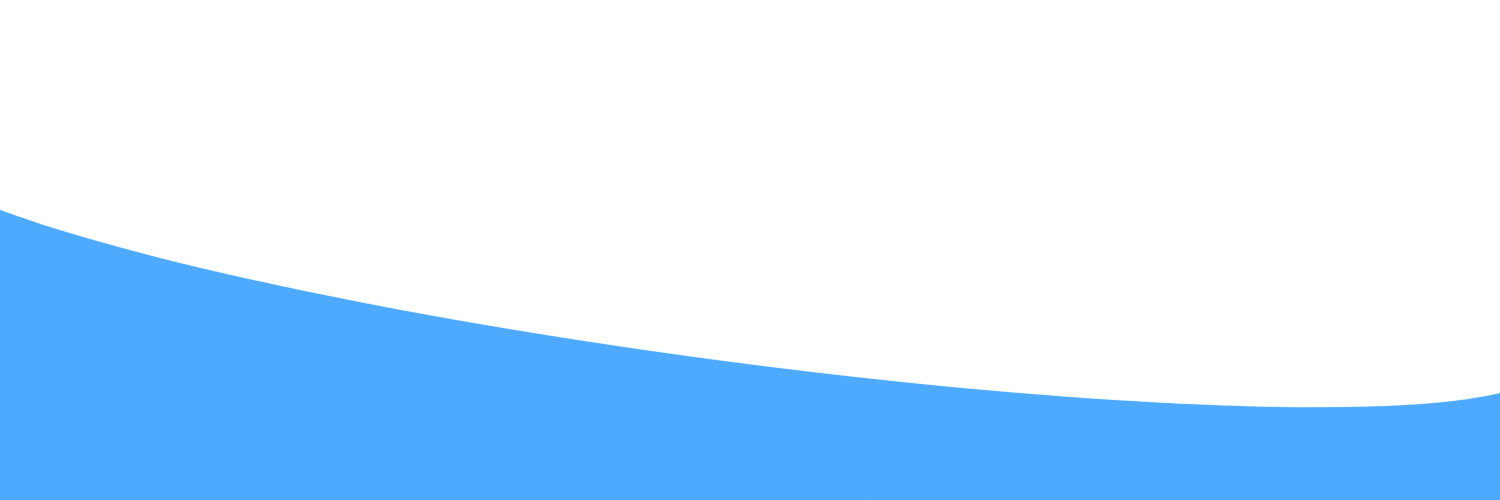
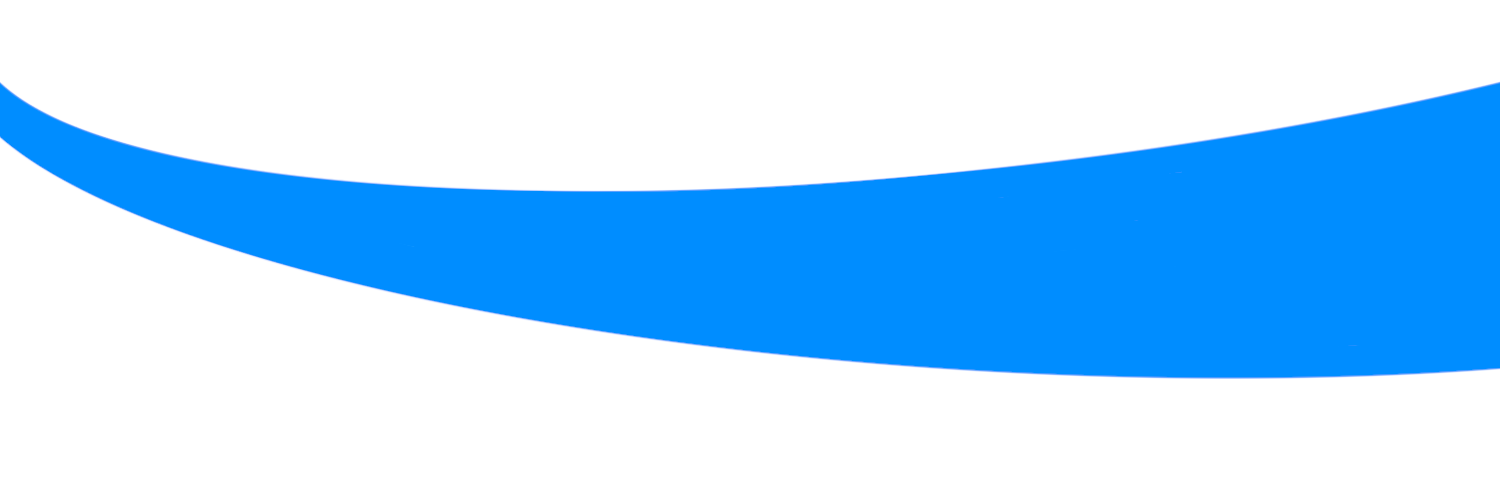
デザインを白基調に

diff --git a/app/homepage.css b/app/homepage.css
@@ -14,53 +14,56 @@
 }
 
 .newsbox {
-    margin-top: 0;
     position: relative;
-    z-index: 3
+    z-index: 3;
+    background-color: #ffffff;
+}
+
+.newsbox-up {
+    background-color: #008dff;
+    width: 100%;
+    height: auto;
+    min-height: 120px;
+    position: relative;
+    overflow: hidden;
+}
+
+.newsbox-up-sp {
+    display: block;
+}
+
+.newsbox-animation {
+    position: absolute;
+    top: 0;
+    z-index: 1;
+    -webkit-transform: rotate(-1deg);
+    transform: rotate(-1deg);
+    margin-top: 8vw;
+}
+
+@media (max-width: 767px) {
+    .newsbox-animation {
+        z-index: 5;
+        -webkit-transform: rotate(1deg);
+        transform: rotate(1deg);
+        margin-top: 11vw;
+    }
+
+    .newsbox-up {
+        background-color: #ffffff;
+    }
 }
 
 .newsbox-newstag {
     position: absolute;
     left: -25px;
-    top: -20px;
+    top: 0px;
     height: clamp(10px, 25vw, 160px);
     min-height: 110px;
     width: auto;
-    z-index: 5;
+    z-index: 7;
     -webkit-transform: rotate(5deg);
     transform: rotate(5deg);
-}
-
-.newsbox-up {
-    background-color: #4daaff;
-    pointer-events: none;
-    width: 100%;
-    height: 25vw;
-    min-height: 120px;
-}
-
-.newsbox-up:before {
-    background-color: #4daaff;
-    content: "";
-    display: block;
-    -webkit-transform: translateY(-100%);
-    transform: translateY(-100%);
-    width: 100%;
-}
-
-.newsbox-up-sp {
-    left: 0;
-    position: absolute;
-    top: 1px;
-    -webkit-transform: translateY(-100%);
-    transform: translateY(-100%)
-}
-
-.newsbox-animation {
-    position: absolute;
-    top: 10vw;
-    -webkit-transform: rotate(2deg);
-    transform: rotate(2deg);
 }
 
 /* お知らせコンテンツ */
@@ -68,7 +71,6 @@
     width: 100%;
     padding-top: 30px;
     padding-bottom: 30px;
-    background-color: #4daaff;
     display: flex;
     justify-content: center;
     /* 中央寄せ */
@@ -82,7 +84,6 @@
     overflow-y: auto;
     padding: 15px;
     border-radius: 15px;
-    background-color: #64b4ff;
 }
 
 /* 各ニュース項目の親（中央寄せ用） */
@@ -405,11 +406,9 @@
 }
 
 .headtop-leftarea {
-    height: 100%;
     position: absolute;
     width: 100%;
-    z-index: 2;
-    overflow-y: hidden;
+    z-index: -1;
 }
 
 .headtop-textanimation {
@@ -457,24 +456,10 @@
 }
 
 .hidden-x-side {
-    overflow-x: hidden
+    overflow-x: hidden;
 }
 
 @media (min-width:768px) {
-    .newsbox-up {
-        overflow: hidden;
-        height: 20vw;
-        max-height: 300px;
-    }
-
-    .newsbox-up:before {
-        display: none
-    }
-
-    .newsbox-up-sp {
-        display: block
-    }
-
     .newsbox-newstag {
         left: -40px;
         top: 10px;
@@ -487,12 +472,6 @@
         top: 1vw;
         height: 18vw;
         max-height: 250px;
-    }
-
-    .newsbox-animation {
-        -webkit-transform: rotate(-1deg);
-        transform: rotate(-1deg);
-        top: clamp(65px, 5vw, 90px);
     }
 
     .footbox-foottag {
@@ -525,7 +504,6 @@
         padding-bottom: 0;
         padding-left: 0;
         padding-top: 0;
-        max-height: 110vh;
         overflow-y: hidden;
     }
 

diff --git a/app/page.tsx b/app/page.tsx
@@ -130,20 +130,23 @@ const Home: React.FC = () => {
 
             <section className="newsbox">
               <div className="newsbox-up">
-                <picture>
-                  <source
-                    media="(min-width:768px)"
-                    srcSet="/welcome/newscover.png"
-                  />
-                  <Image
-                    className="newsbox-up-sp img"
-                    src="/welcome/newscoversp.png"
-                    alt=""
-                    width={2000}
-                    height={500}
-                    priority
-                  />
-                </picture>
+
+                <div className='titlecover'>
+                  <picture>
+                    <source
+                      media="(min-width:768px)"
+                      srcSet="/welcome/newscover.png"
+                    />
+                    <Image
+                      className="newsbox-up-sp img"
+                      src="/welcome/newscoversp.png"
+                      alt=""
+                      width={3000}
+                      height={1000}
+                      priority
+                    />
+                  </picture>
+                </div>
 
                 <Image
                   className="newsbox-newstag img"
